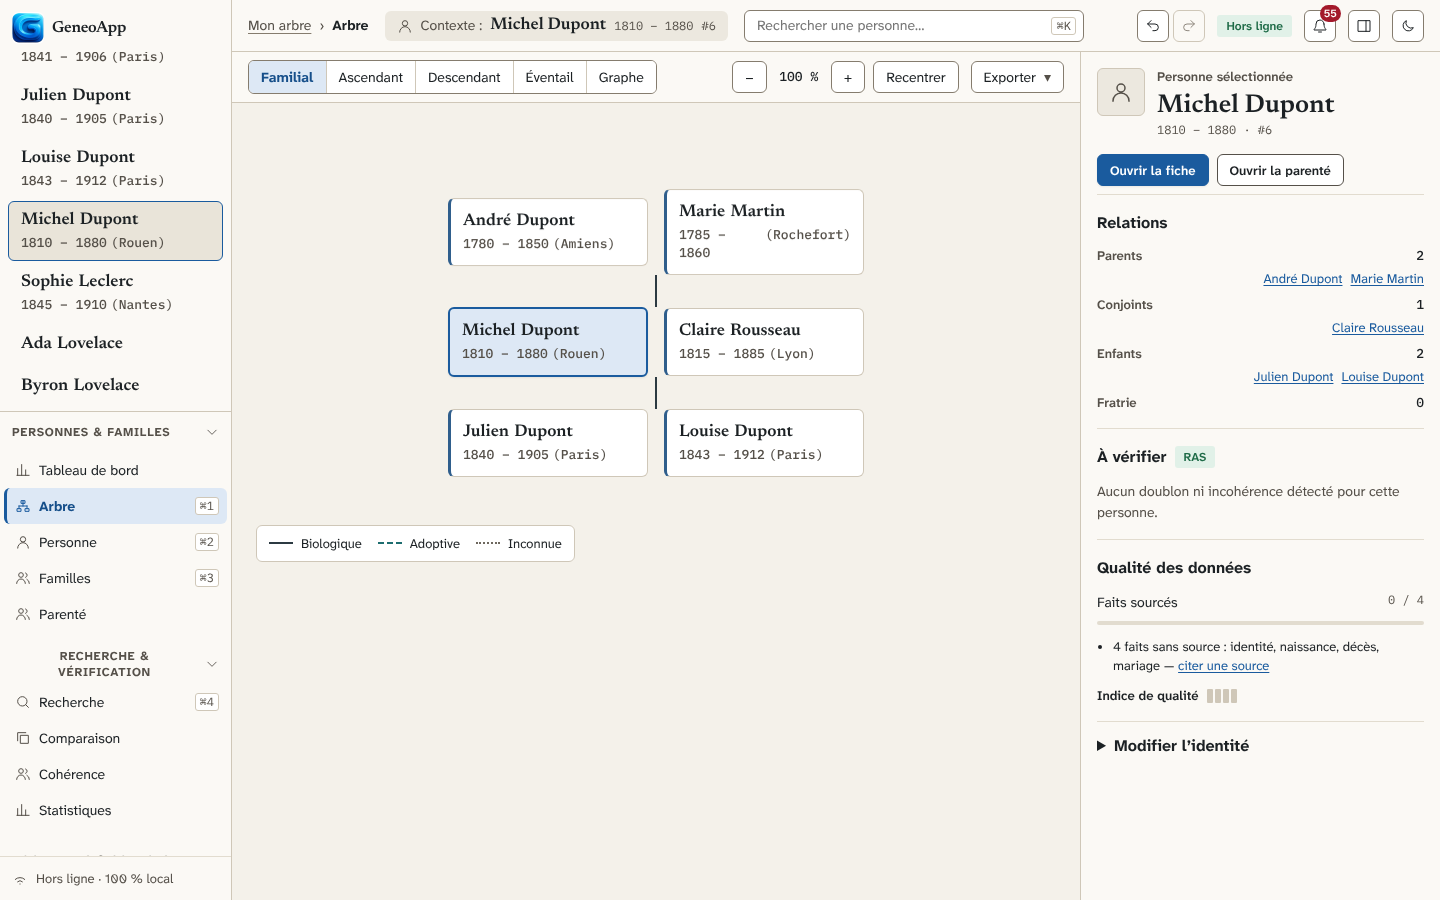
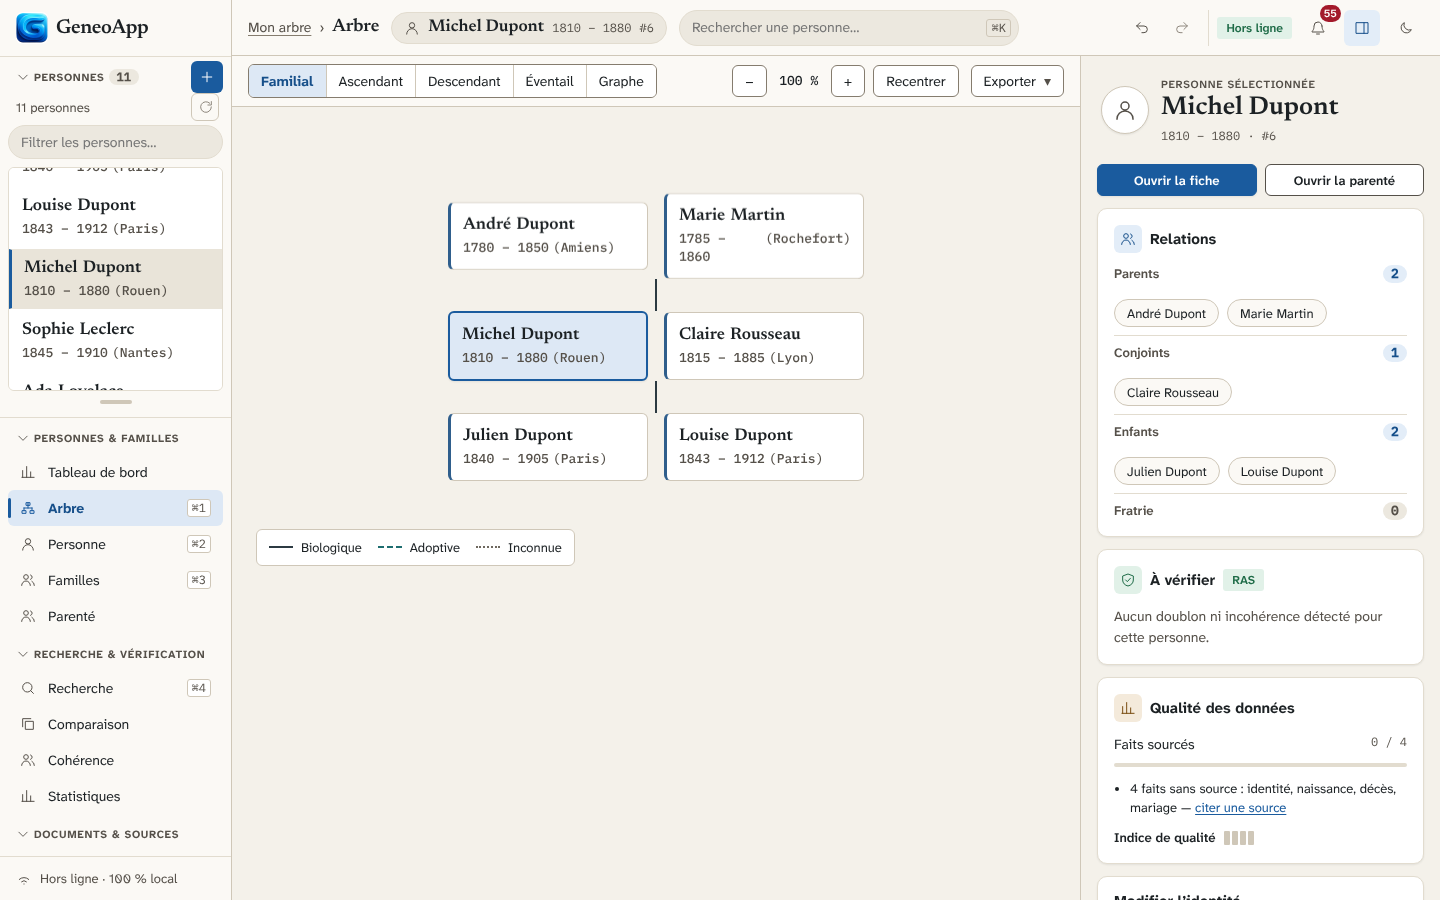
docs: suivi de la refonte visuelle ; captures de démonstration et script de captures à jour
Claude-Session: https://claude.ai/code/session_01BiwMSgkqgYYMTLjkGCVcsn

diff --git a/scripts/capture-screenshots.js b/scripts/capture-screenshots.js
@@ -406,7 +406,9 @@ async function main() {
     await createPerson('Byron', 'Lovelace');
     await page.getByRole('button', { name: 'Ada Lovelace' }).first().click();
     await page.getByRole('button', { name: 'Familles', exact: true }).click();
-    await page.getByLabel('Ajouter un enfant').selectOption({ label: 'Byron Lovelace' });
+    await page.getByRole('button', { name: 'Ajouter un enfant' }).click();
+    await page.getByRole('combobox', { name: 'Enfant' }).fill('byron');
+    await page.getByRole('option', { name: /Byron Lovelace/ }).click();
     await page.getByRole('button', { name: 'Ajouter l’enfant' }).click();
 
     // Base de démonstration : famille de trois générations, lieux

diff --git a/docs/project/PROGRESS.md b/docs/project/PROGRESS.md
@@ -764,3 +764,16 @@ une page ; le test de performance du graphe (4 000 personnes) est sensible à la
 - Limite : l'étendue de la frise va jusqu'à l'année en cours dès qu'une personne vivante existe ou n'a pas de
   date de décès connue.
 - Vérification : lint, format, i18n (1525 clés FR/EN), `npm test` (client 368), Playwright 35/35.
+
+## Refonte visuelle et ergonomique (2026-10-31)
+
+| Zone | Changements |
+|---|---|
+| Coque | Liste des personnes repliable à hauteur réglable (navigation toujours visible), en-têtes de section collants et alignés, inspecteur en cartes avec icônes, transitions entre vues (coupées par `prefers-reduced-motion`), `Toast`, `EmptyState`, `SkeletonGroup` partagés, barre d'onglets mobile avec cibles ≥ 44 px |
+| Statistiques / tableau de bord | 8 cartes KPI, 6 graphiques SVG sans dépendance (tableau masqué + texte alternatif), endpoint `GET /api/statistics/insights`, « À surveiller » en cartes cliquables |
+| Familles / parenté | Sections Parents / Unions / Enfants, sélecteur de personne avec recherche (combobox ARIA), actions destructives dans un menu « … » avec la confirmation partagée, toasts annoncés |
+| Recherche | Hero, résultats en cartes groupés par type avec extrait surligné, filtres repliables avec puces, multi-sites avec interrupteur d'indexation locale, palette ⌘K enrichie |
+
+Vérification : lint, format, i18n (1698 clés FR/EN, 0 texte en dur), `npm test` (client 397, api 251), Playwright 35/35,
+captures relues en clair, sombre et mobile par les agents. Restent à polir : le doublon « PERSONNES 11 » / « 11 personnes »
+en tête du menu latéral.
